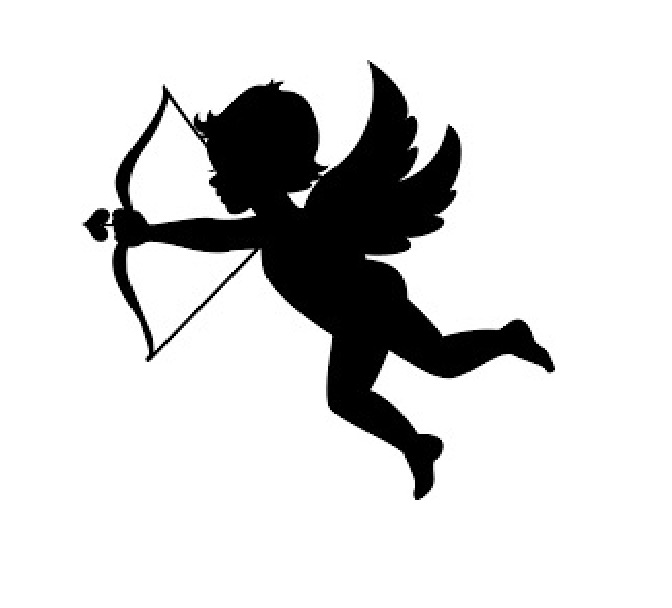
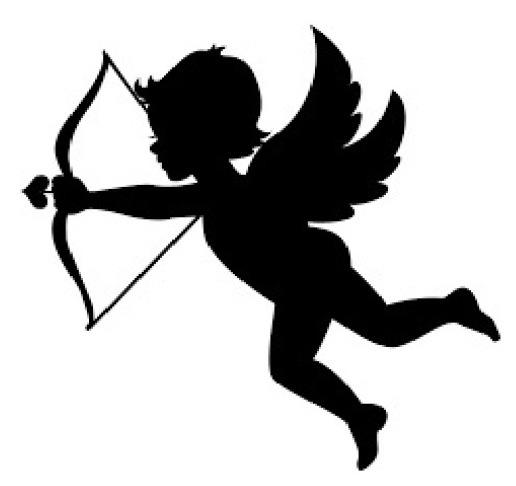
cupid image changes when he turns

Changed region(s): [[0.031, 0.0309, 0.9922, 0.9877]]

diff --git a/src/breakout/Main.java b/src/breakout/Main.java
@@ -90,6 +90,13 @@ public class Main extends Application {
         boss.setX(boss.getX() + boss.getXDirection() * boss.getSpeed() * elapsedTime);
         if (boss.getX() < 0 || boss.getX() >= WIDTH - boss.getWidth()) {
           boss.invertXDirection();
+          if (boss.getXDirection() == 1) {
+            boss.setFill(new ImagePattern(
+                new Image(getClass().getClassLoader().getResourceAsStream("cupid.png"))));
+          } else if (boss.getXDirection() == -1) {
+            boss.setFill(new ImagePattern(
+                new Image(getClass().getClassLoader().getResourceAsStream("cupidleft.png"))));
+          }
         }
       }
 
